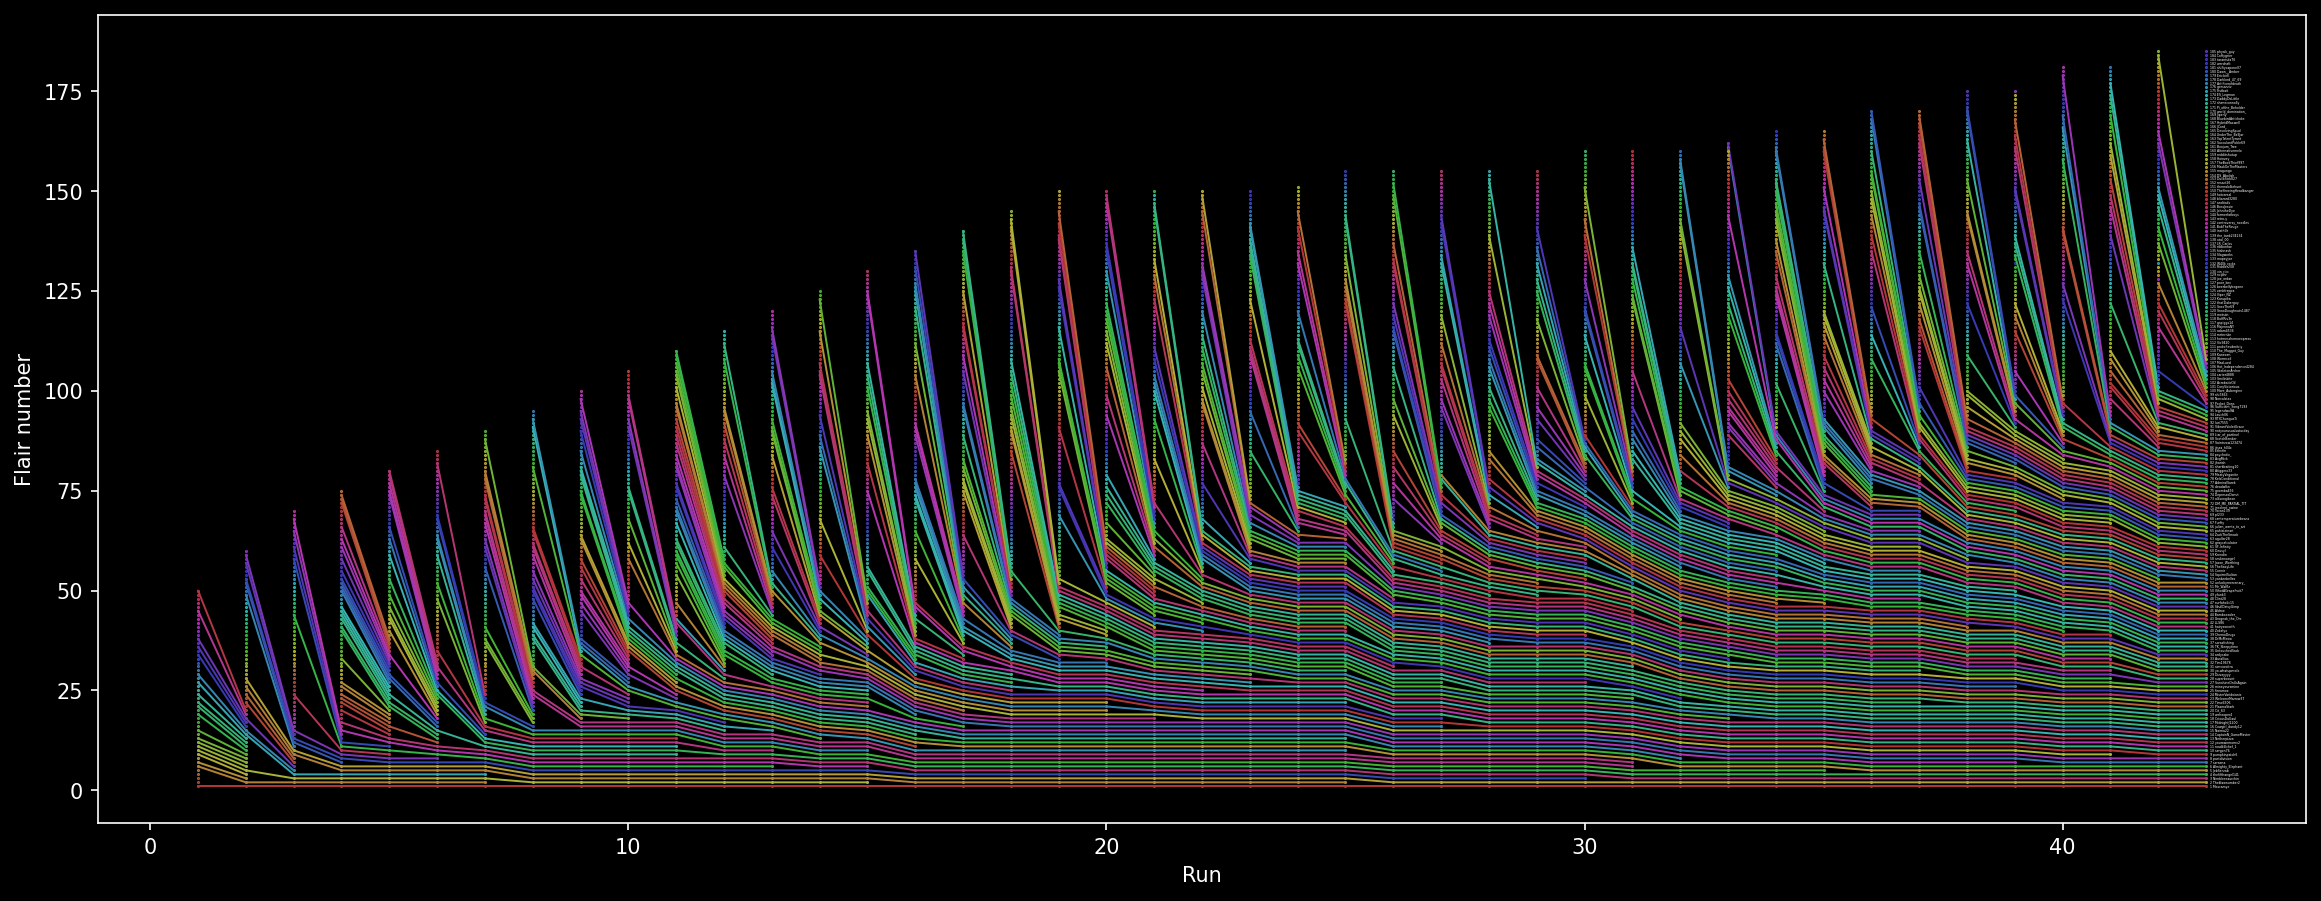
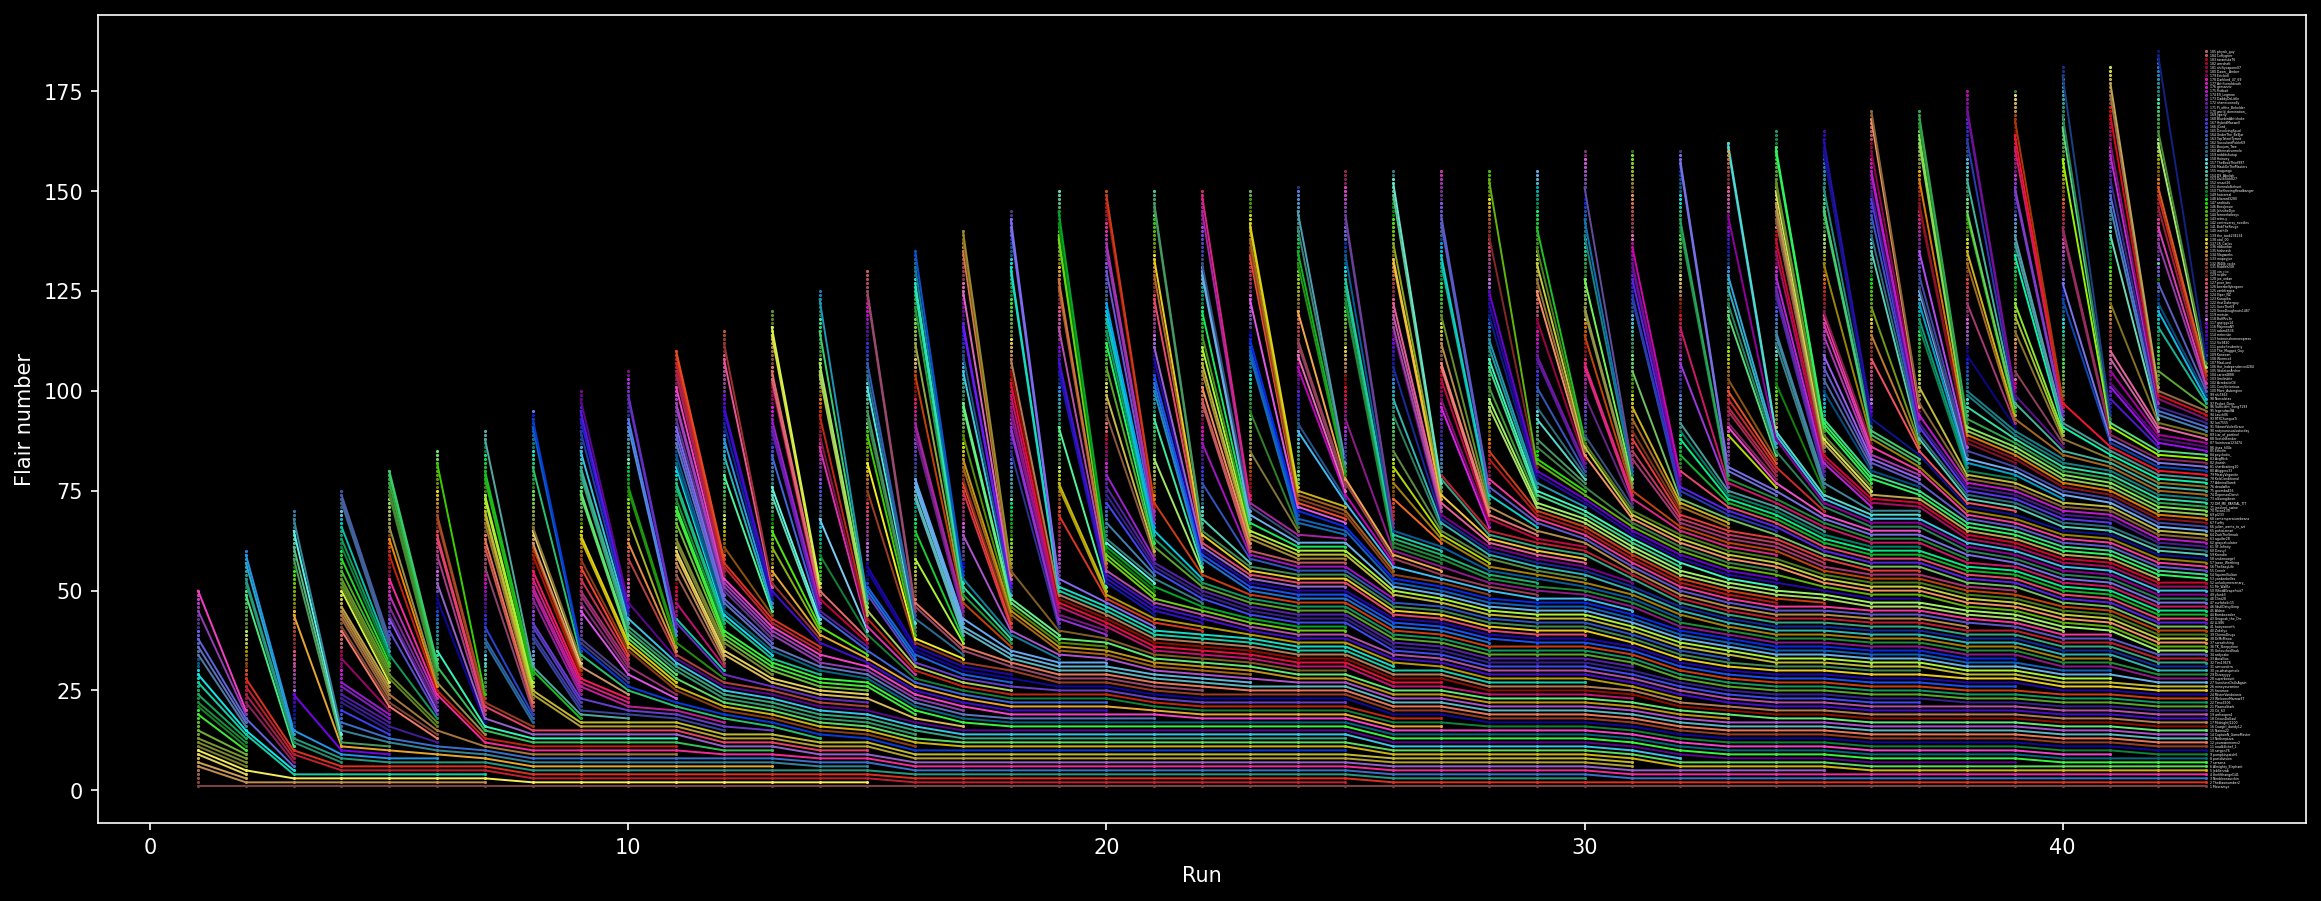
more colors to cnt

Changed region(s): [[0.062, 0.1243, 0.9617, 0.8701]]

diff --git a/graphs/allgraph/allgraphfix.py b/graphs/allgraph/allgraphfix.py
@@ -52,8 +52,10 @@ lines = ("-", "--", "-.", ":")
 
 def plot_user(index, ax):
     line_style = lines[index % 4]
-    d = 50
-    color = colorsys.hsv_to_rgb((index % d)/d, 0.70, 0.70)
+    d = 56
+    e = 33
+    f = 10
+    color = colorsys.hsv_to_rgb((index % d)/d, 0.50 + 0.5*(index % e)/e, 0.50 + 0.5*(index % f)/f)
     data = separate(mega[index][1:])
     for i in range(len(data[0])):
         ax.plot(data[1][i], data[0][i], "o", ms=0.5, c=color)

diff --git a/graphs/allgraph/allgraphvariation.py b/graphs/allgraph/allgraphvariation.py
@@ -51,8 +51,10 @@ lines = ("-", "--", "-.", ":")
 
 def plot_user(index, ax):
     line_style = lines[index % 4]
-    d = 50
-    color = colorsys.hsv_to_rgb((index % d)/d, 0.70, 0.70)
+    d = 56
+    e = 33
+    f = 10
+    color = colorsys.hsv_to_rgb((index % d)/d, 0.50 + 0.5*(index % e)/e, 0.50 + 0.5*(index % f)/f)
     data = separate(mega[index][1:])
     for i in range(len(data[0])):
         ax.plot(data[1][i], data[0][i], "o", ms=0.5, c=color)
